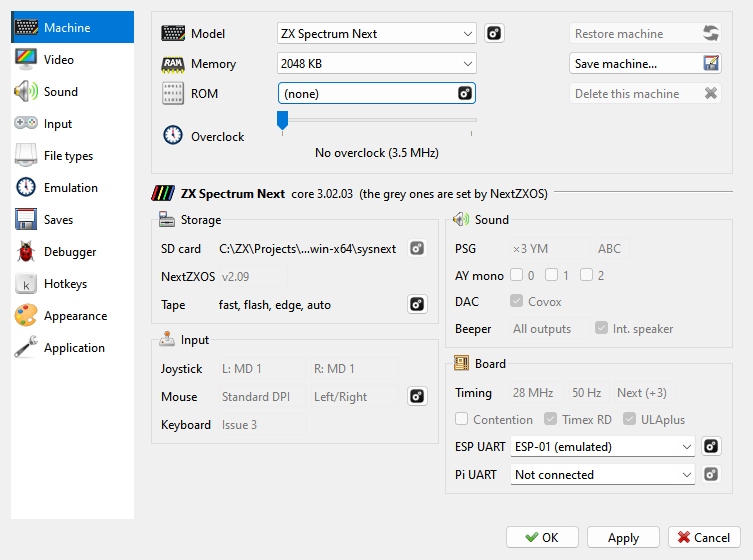
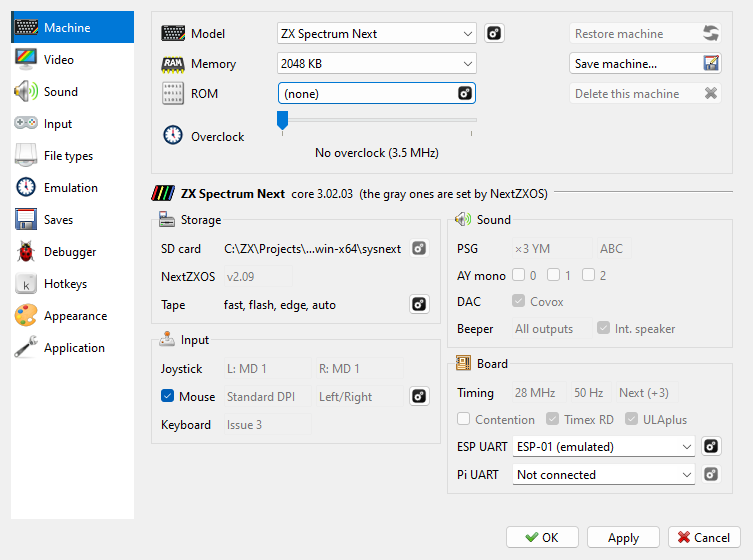
manual: the Next's Mouse check box is this computer's mouse in use; shot

diff --git a/docs/manual/options-machine.md b/docs/manual/options-machine.md
@@ -72,7 +72,7 @@ other machines.
 | Group | What it shows |
 |---|---|
 | **Storage** | **SD card**, the card's path (it is put in from the **Media** menu, see [The SD card](zx-next.md#the-sd-card)); **NextZXOS**, the version the machine runs; **Tape** with its settings (see [Machine: Tape](#machine-tape)) |
-| **Input** | **Joystick**, the left and the right one; **Mouse**, its DPI and buttons, with a {icon}`settings` gear for the mouse's **Sensitivity** and **Swap buttons**; **Keyboard**, issue 2 or 3 |
+| **Input** | **Joystick**, the left and the right one; **Mouse**, its DPI and buttons, with a {icon}`settings` gear for the mouse's **Sensitivity** and **Swap buttons** - its check box is this computer's mouse in use, a click in the window then takes the pointer; **Keyboard**, issue 2 or 3 |
 | **Sound** | **PSG**: the chip, **x3** with TurboSound on (all three play) or **x1**, and the stereo; **AY mono** for each chip; **DAC**: Covox; **Beeper**: where BEEP goes, and the internal speaker |
 | **Board** | **Timing**: the CPU speed, 50 or 60 Hz, and the timings; **Contention**, **Timex RD** and **ULAplus**; **ESP UART** and **Pi UART** |
 
